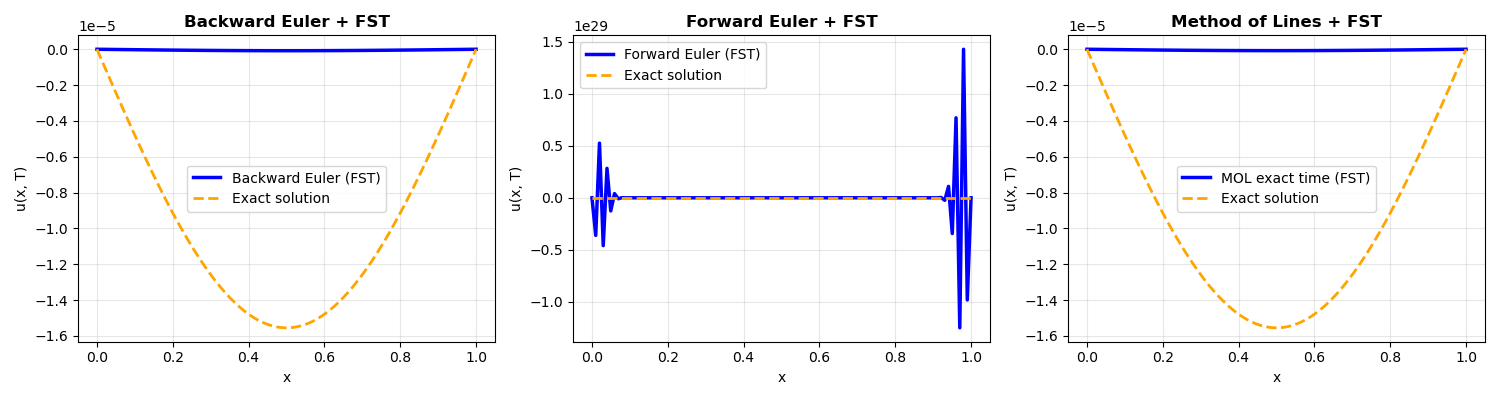
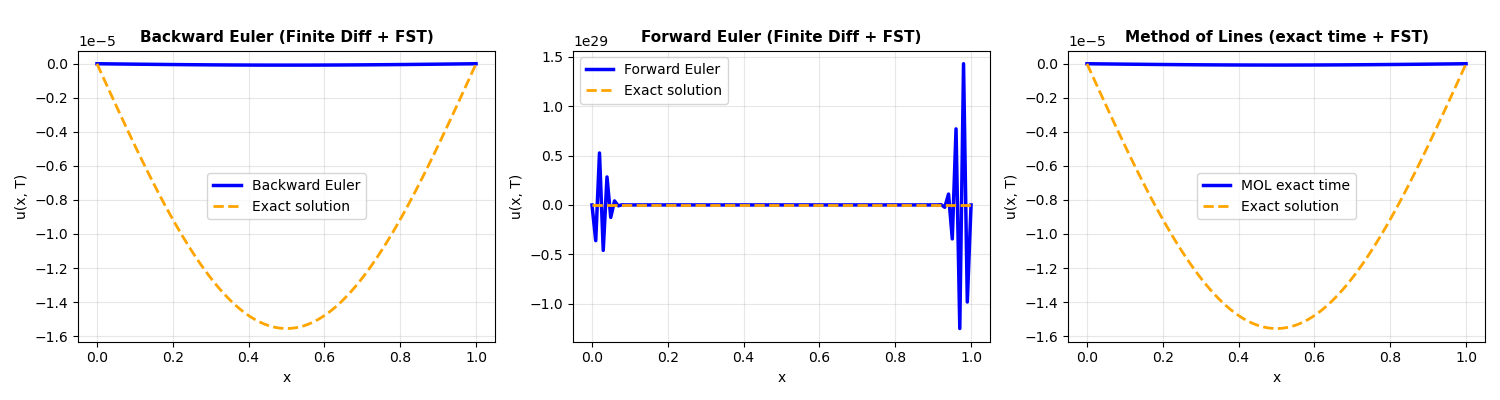
hw10

diff --git a/hw10/p3.py b/hw10/p3.py
@@ -66,9 +66,11 @@ def solve_mol_exact_fst(N, T):
 
 def plot_solutions(sols):
     fig, axes = plt.subplots(1, 3, figsize=(15, 4))
-    titles = ['Backward Euler + FST', 'Forward Euler + FST', 'Method of Lines + FST']
+    titles = ['Backward Euler (Finite Diff + FST)', 
+              'Forward Euler (Finite Diff + FST)', 
+              'Method of Lines (exact time + FST)']
     labels = ['Part a', 'Part b', 'Part c']
-    blue_labels = ['Backward Euler (FST)', 'Forward Euler (FST)', 'MOL exact time (FST)']
+    blue_labels = ['Backward Euler', 'Forward Euler', 'MOL exact time']
     
     for ax, title, lbl, blue_lbl in zip(axes, titles, labels, blue_labels):
         for name, (x, u) in sols.items():
@@ -78,7 +80,7 @@ def plot_solutions(sols):
                 ax.plot(x, u, '--', lw=2, label='Exact solution', color='orange')
         ax.set_xlabel('x')
         ax.set_ylabel('u(x, T)')
-        ax.set_title(title, fontweight='bold')
+        ax.set_title(title, fontweight='bold', fontsize=11)
         ax.grid(True, alpha=0.3)
         ax.legend()
     plt.tight_layout()
@@ -106,7 +108,7 @@ if __name__ == "__main__":
     plot_solutions(sols)
     
     # Convergence analysis
-    print("\nCONVERGENCE ANALYSIS")
+    print("\nCONVERGENCE ANALYSIS (L2 Error vs Reference N=800)")
     print("-"*60)
     
     x_ref, u_ref = solve_mol_exact_fst(800, T)
@@ -121,7 +123,9 @@ if __name__ == "__main__":
             x, u = func(N_val)
             if not np.any(np.isnan(u)):
                 u_int = np.interp(x, x_ref, u_ref)
-                errs.append(np.sqrt(np.sum((u - u_int)**2) * (x[1]-x[0])))
+                # L2 error: sqrt(sum((u - u_ref)^2) * dx)
+                l2_err = np.sqrt(np.sum((u - u_int)**2) * (x[1]-x[0]))
+                errs.append(l2_err)
         results[name] = errs
     
     print(f"{'N':<6} | {'MOL':<12} | {'BE':<12} | {'FE':<12}")
@@ -136,9 +140,16 @@ if __name__ == "__main__":
         print(row)
     
     print("-"*54)
-    for name, errs in results.items():
+    for name in ['MOL', 'BE', 'FE']:
+        errs = results[name]
         if len(errs) >= 2:
-            order = np.log(errs[-2]/errs[-1]) / np.log(2)
-            print(f"{name} Convergence Order: {order:.2f}")
+            # Compute average convergence order using all consecutive pairs
+            orders = []
+            for i in range(len(errs)-1):
+                if errs[i] > 0 and errs[i+1] > 0:
+                    order = np.log(errs[i]/errs[i+1]) / np.log(2)
+                    orders.append(order)
+            avg_order = np.mean(orders) if orders else 0
+            print(f"{name} Convergence Order: {avg_order:.2f}")
     
     print("\n" + "="*60)

diff --git a/hw10/hw10.md b/hw10/hw10.md
@@ -60,7 +60,7 @@ Time       Max Error       L2 Error
 Problem 3: Diffusion Equation u_t = u_xx
 ============================================================
 
-CONVERGENCE ANALYSIS
+CONVERGENCE ANALYSIS (L2 Error vs Reference N=800)
 ------------------------------------------------------------
 N      | MOL          | BE           | FE          
 ------------------------------------------------------
@@ -69,9 +69,9 @@ N      | MOL          | BE           | FE
 80     | 6.1104e-08   | 6.4472e-08   | 6.3911e+26  
 160    | 2.7299e-08   | 2.8992e-08   | 5.3558e+31  
 ------------------------------------------------------
-BE Convergence Order: 1.15
-FE Convergence Order: -16.35
-MOL Convergence Order: 1.16
+MOL Convergence Order: 1.08
+BE Convergence Order: 1.08
+FE Convergence Order: -16.18
 
 ============================================================
 ```
